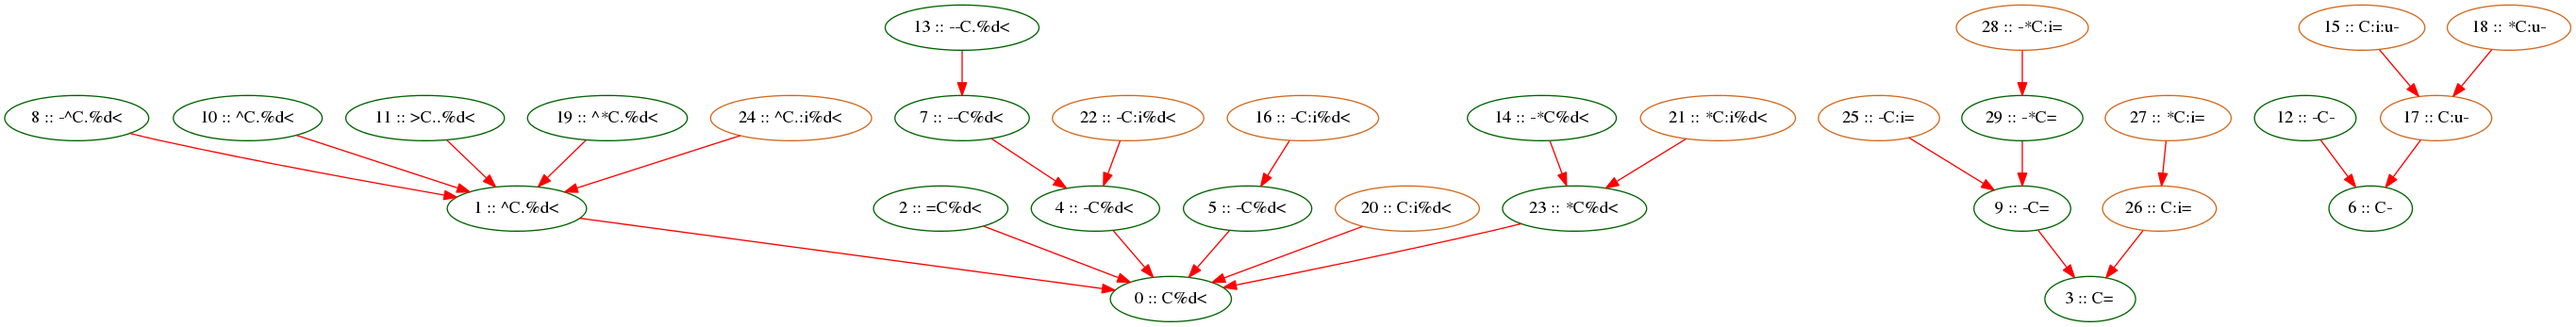
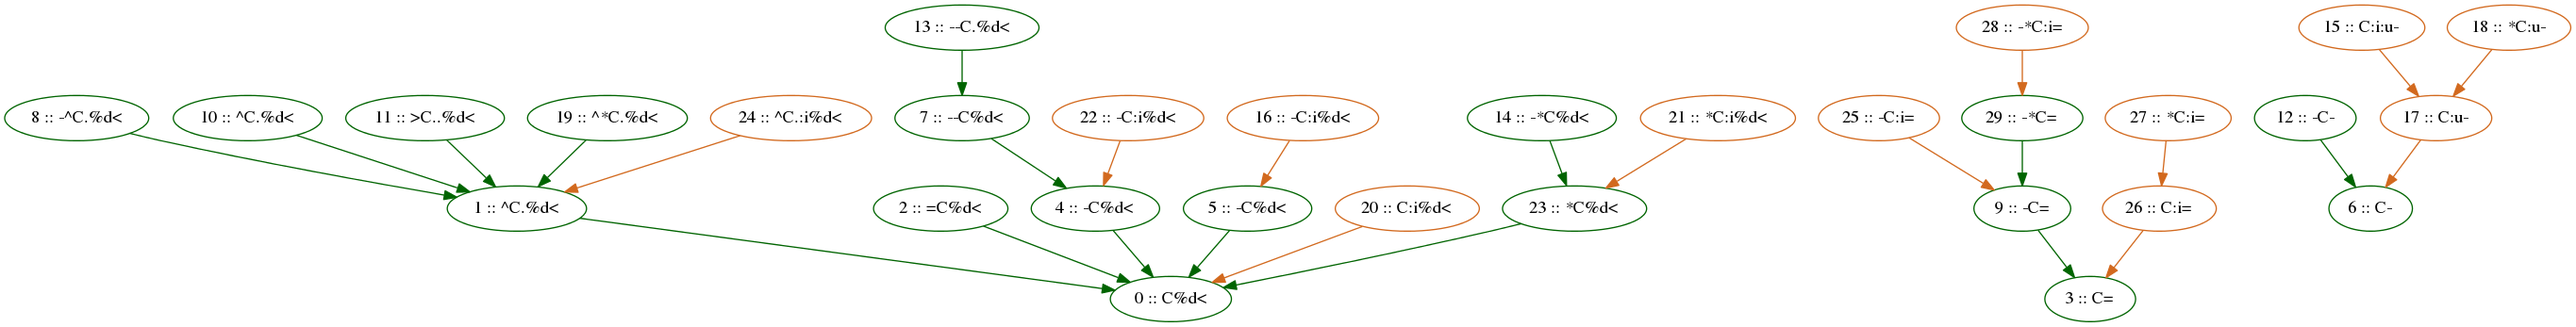
recolor atom dependencies graph

diff --git a/config_parser/lib/generators/atom_graph_generator.rb b/config_parser/lib/generators/atom_graph_generator.rb
@@ -8,8 +8,6 @@ module VersatileDiamond
       ATOM_COLOR = 'darkgreen'
       RELEVANTS_ATOM_COLOR = 'chocolate'
 
-      ATOM_DEPENDENCIES_COLOR = 'red'
-
       SPEC_COLOR = 'black'
       SPECIFIC_SPEC_COLOR = 'blue'
 
@@ -61,8 +59,7 @@ module VersatileDiamond
 
         hash.each do |index, (image, _)|
           name = "#{index} :: #{image}"
-          color = @classifier.has_relevants?(index) ?
-            RELEVANTS_ATOM_COLOR : ATOM_COLOR
+          color = color_by_atom_index(index)
 
           unless @atoms_to_nodes[index]
             @atoms_to_nodes[index] = @graph.add_nodes(name)
@@ -83,9 +80,13 @@ module VersatileDiamond
           from = @atoms_to_nodes[index]
           to = @atoms_to_nodes[@classifier.index(smls)]
           @graph.add_edges(from, to).set do |e|
-            e.color = ATOM_DEPENDENCIES_COLOR
+            e.color = color_by_atom_index(index)
           end
         end
+      end
+
+      def color_by_atom_index(index)
+        @classifier.has_relevants?(index) ? RELEVANTS_ATOM_COLOR : ATOM_COLOR
       end
     end
 
